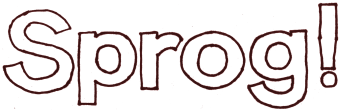
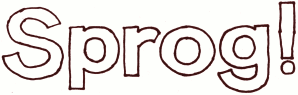
- smaller header

Changed region(s): [[0.0, 0.0, 0.9966, 1.0], [0.0302, 0.9684, 0.0604, 0.9895]]

diff --git a/trunk/sprog-web/html/style.css b/trunk/sprog-web/html/style.css
@@ -49,7 +49,7 @@ dt {
 #headline {
   position: absolute;
   top:  0;
-  left: 200px;
+  left: 166px;
   padding: 2px;
 }
 
@@ -62,7 +62,7 @@ dt {
 
 #hline {
   position: absolute;
-  top:  114px;
+  top:  100px;
   left: 0;
   width: 98%;
   height: 10px;
@@ -74,9 +74,9 @@ dt {
 
 #indent-content {
   position: absolute;
-  top:  124px;
+  top:  108px;
   left: 0;
-  padding: 0 4px 0 186px;
+  padding: 0 4px 0 158px;
 }
 
 #content {
@@ -87,9 +87,9 @@ dt {
 
 #navlinks {
   position: absolute;
-  top:  124px;
+  top:  108px;
   left: 0;
-  width: 180px;
+  width: 154px;
   padding: 6px;
 }
 
@@ -126,9 +126,16 @@ dt {
   margin-bottom: 0.4em;
 }
 
-#banner {
+#promo {
   float: right;
-  padding: 0.2em 0.2em 1.6em 1.0em;
+  width: 150px;
+  font-size: small;
+  border: 2px solid #007F00;
+  margin: 0.2em 0.2em 1.6em 1.0em;
+}
+
+#promo p {
+  margin: 0 0.5em 0.4em 0.5em;
 }
 
 .gear-list {
